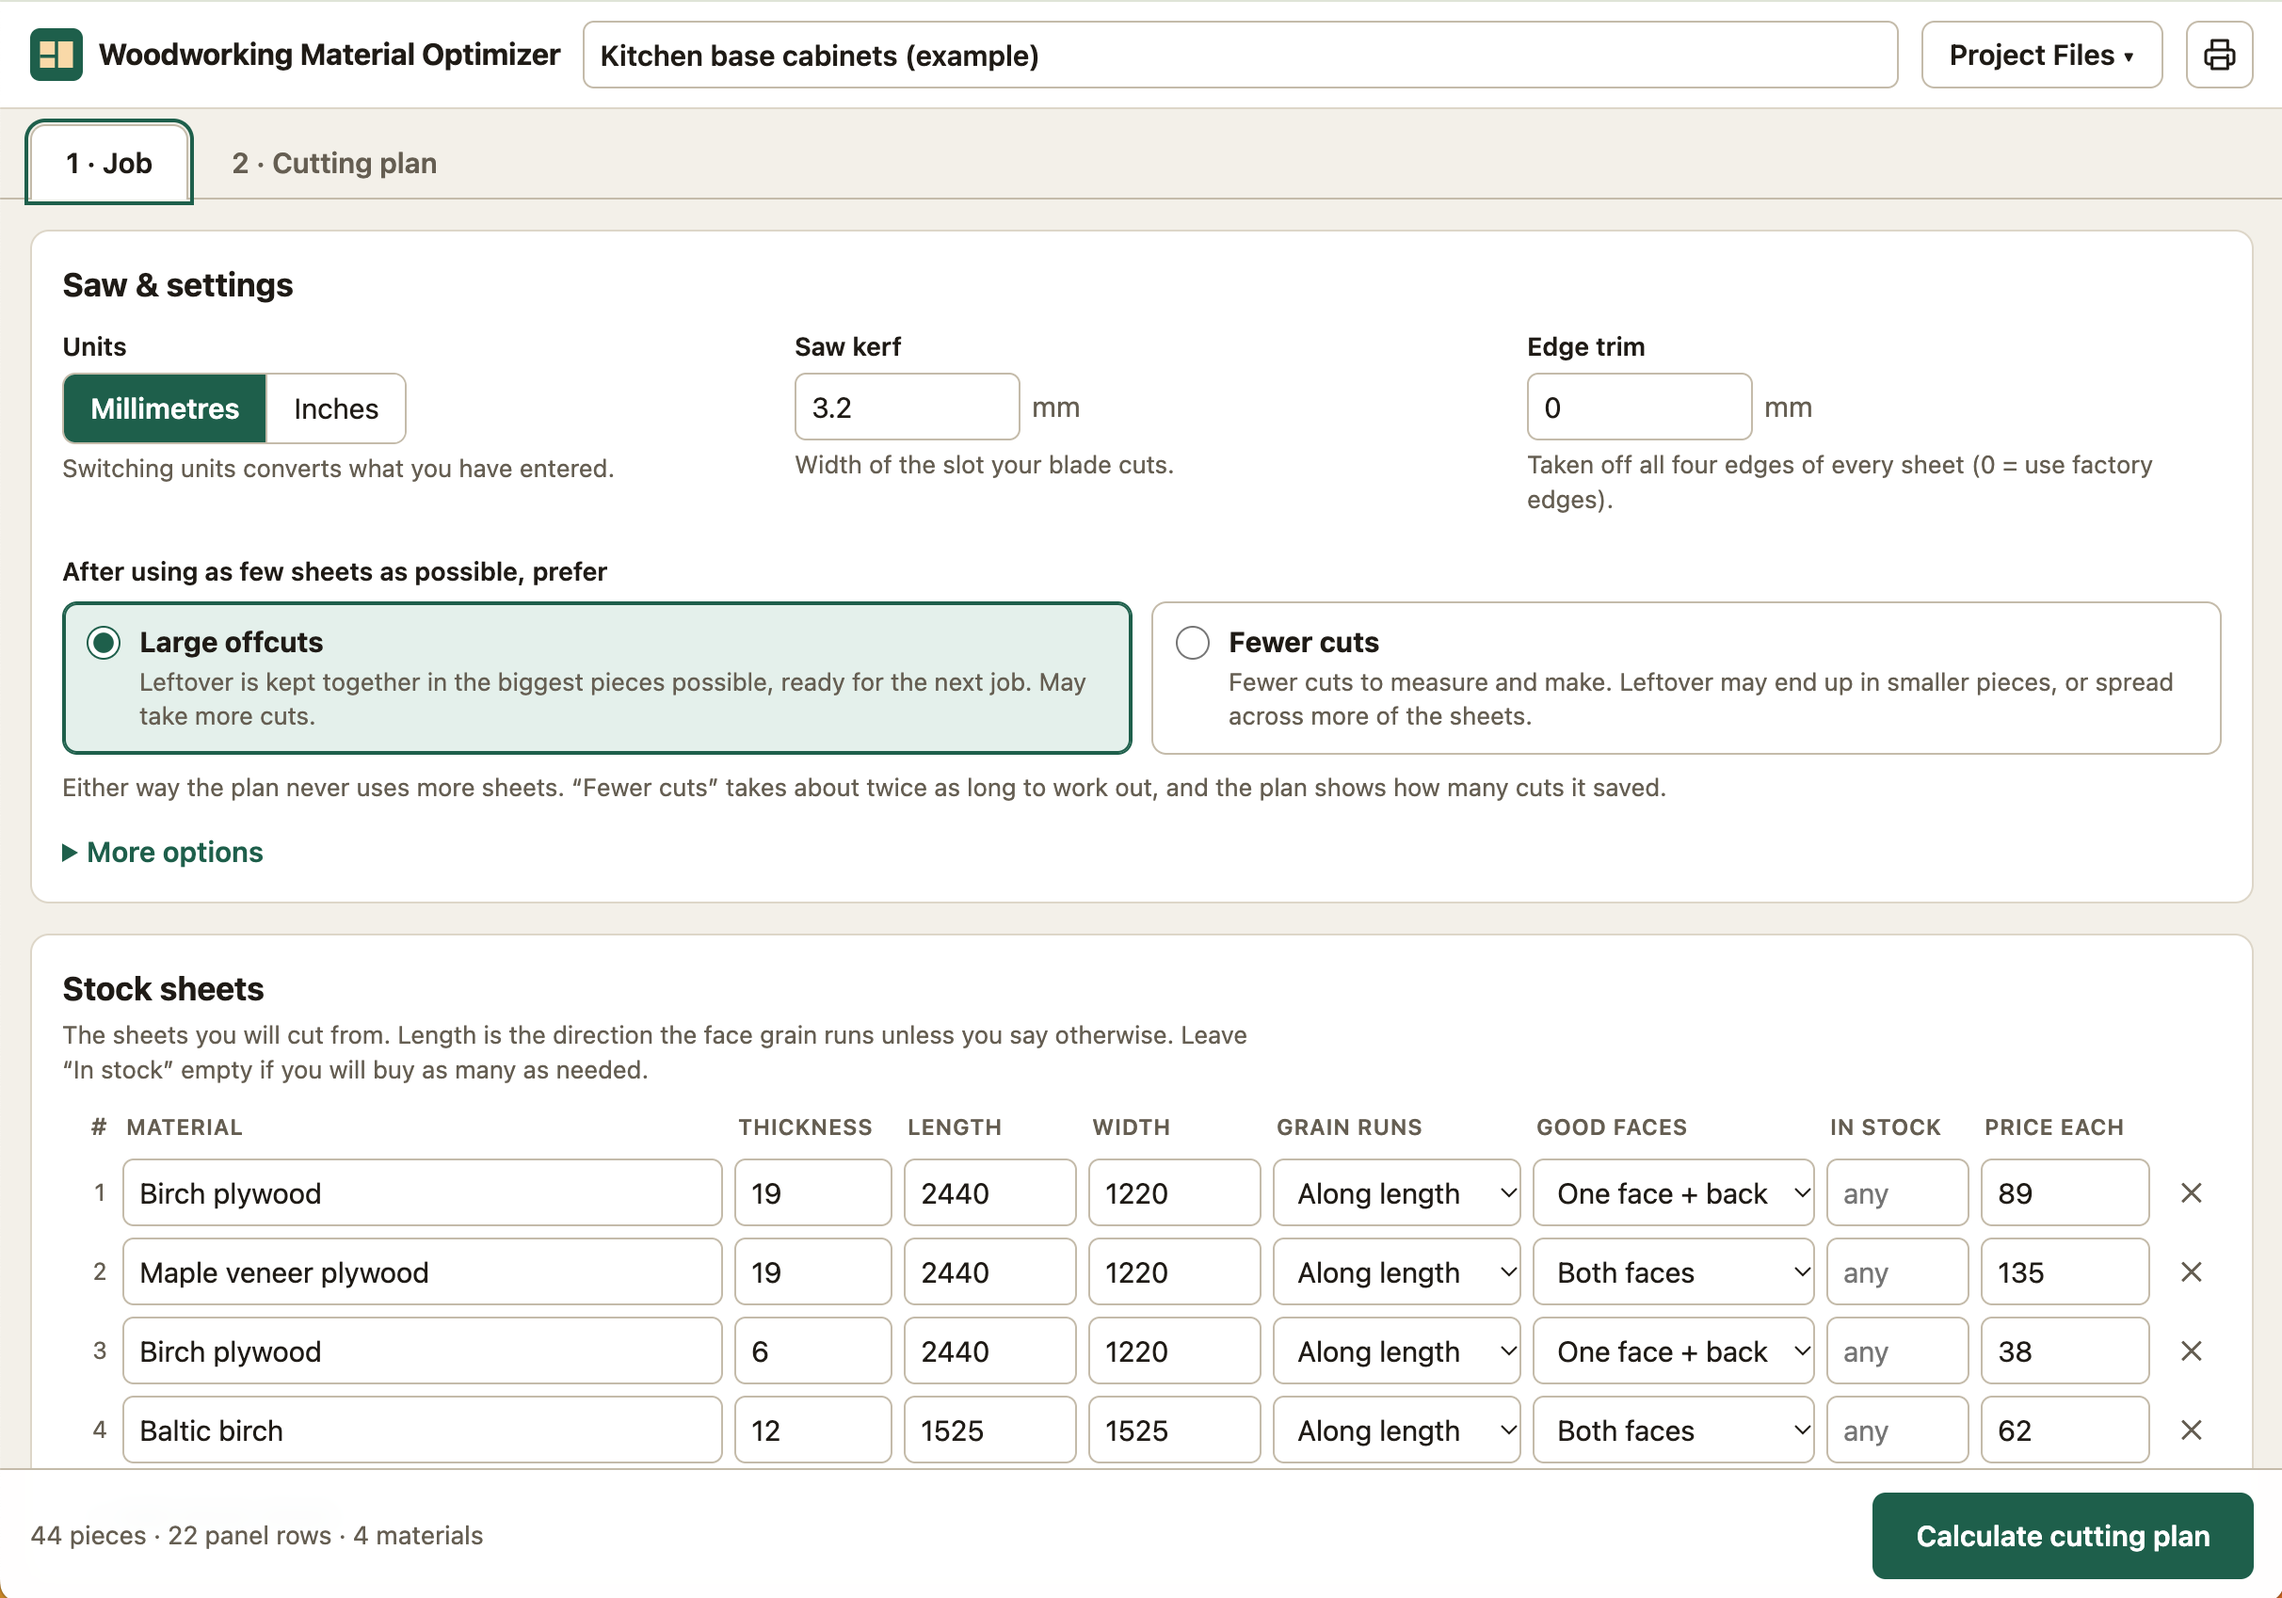
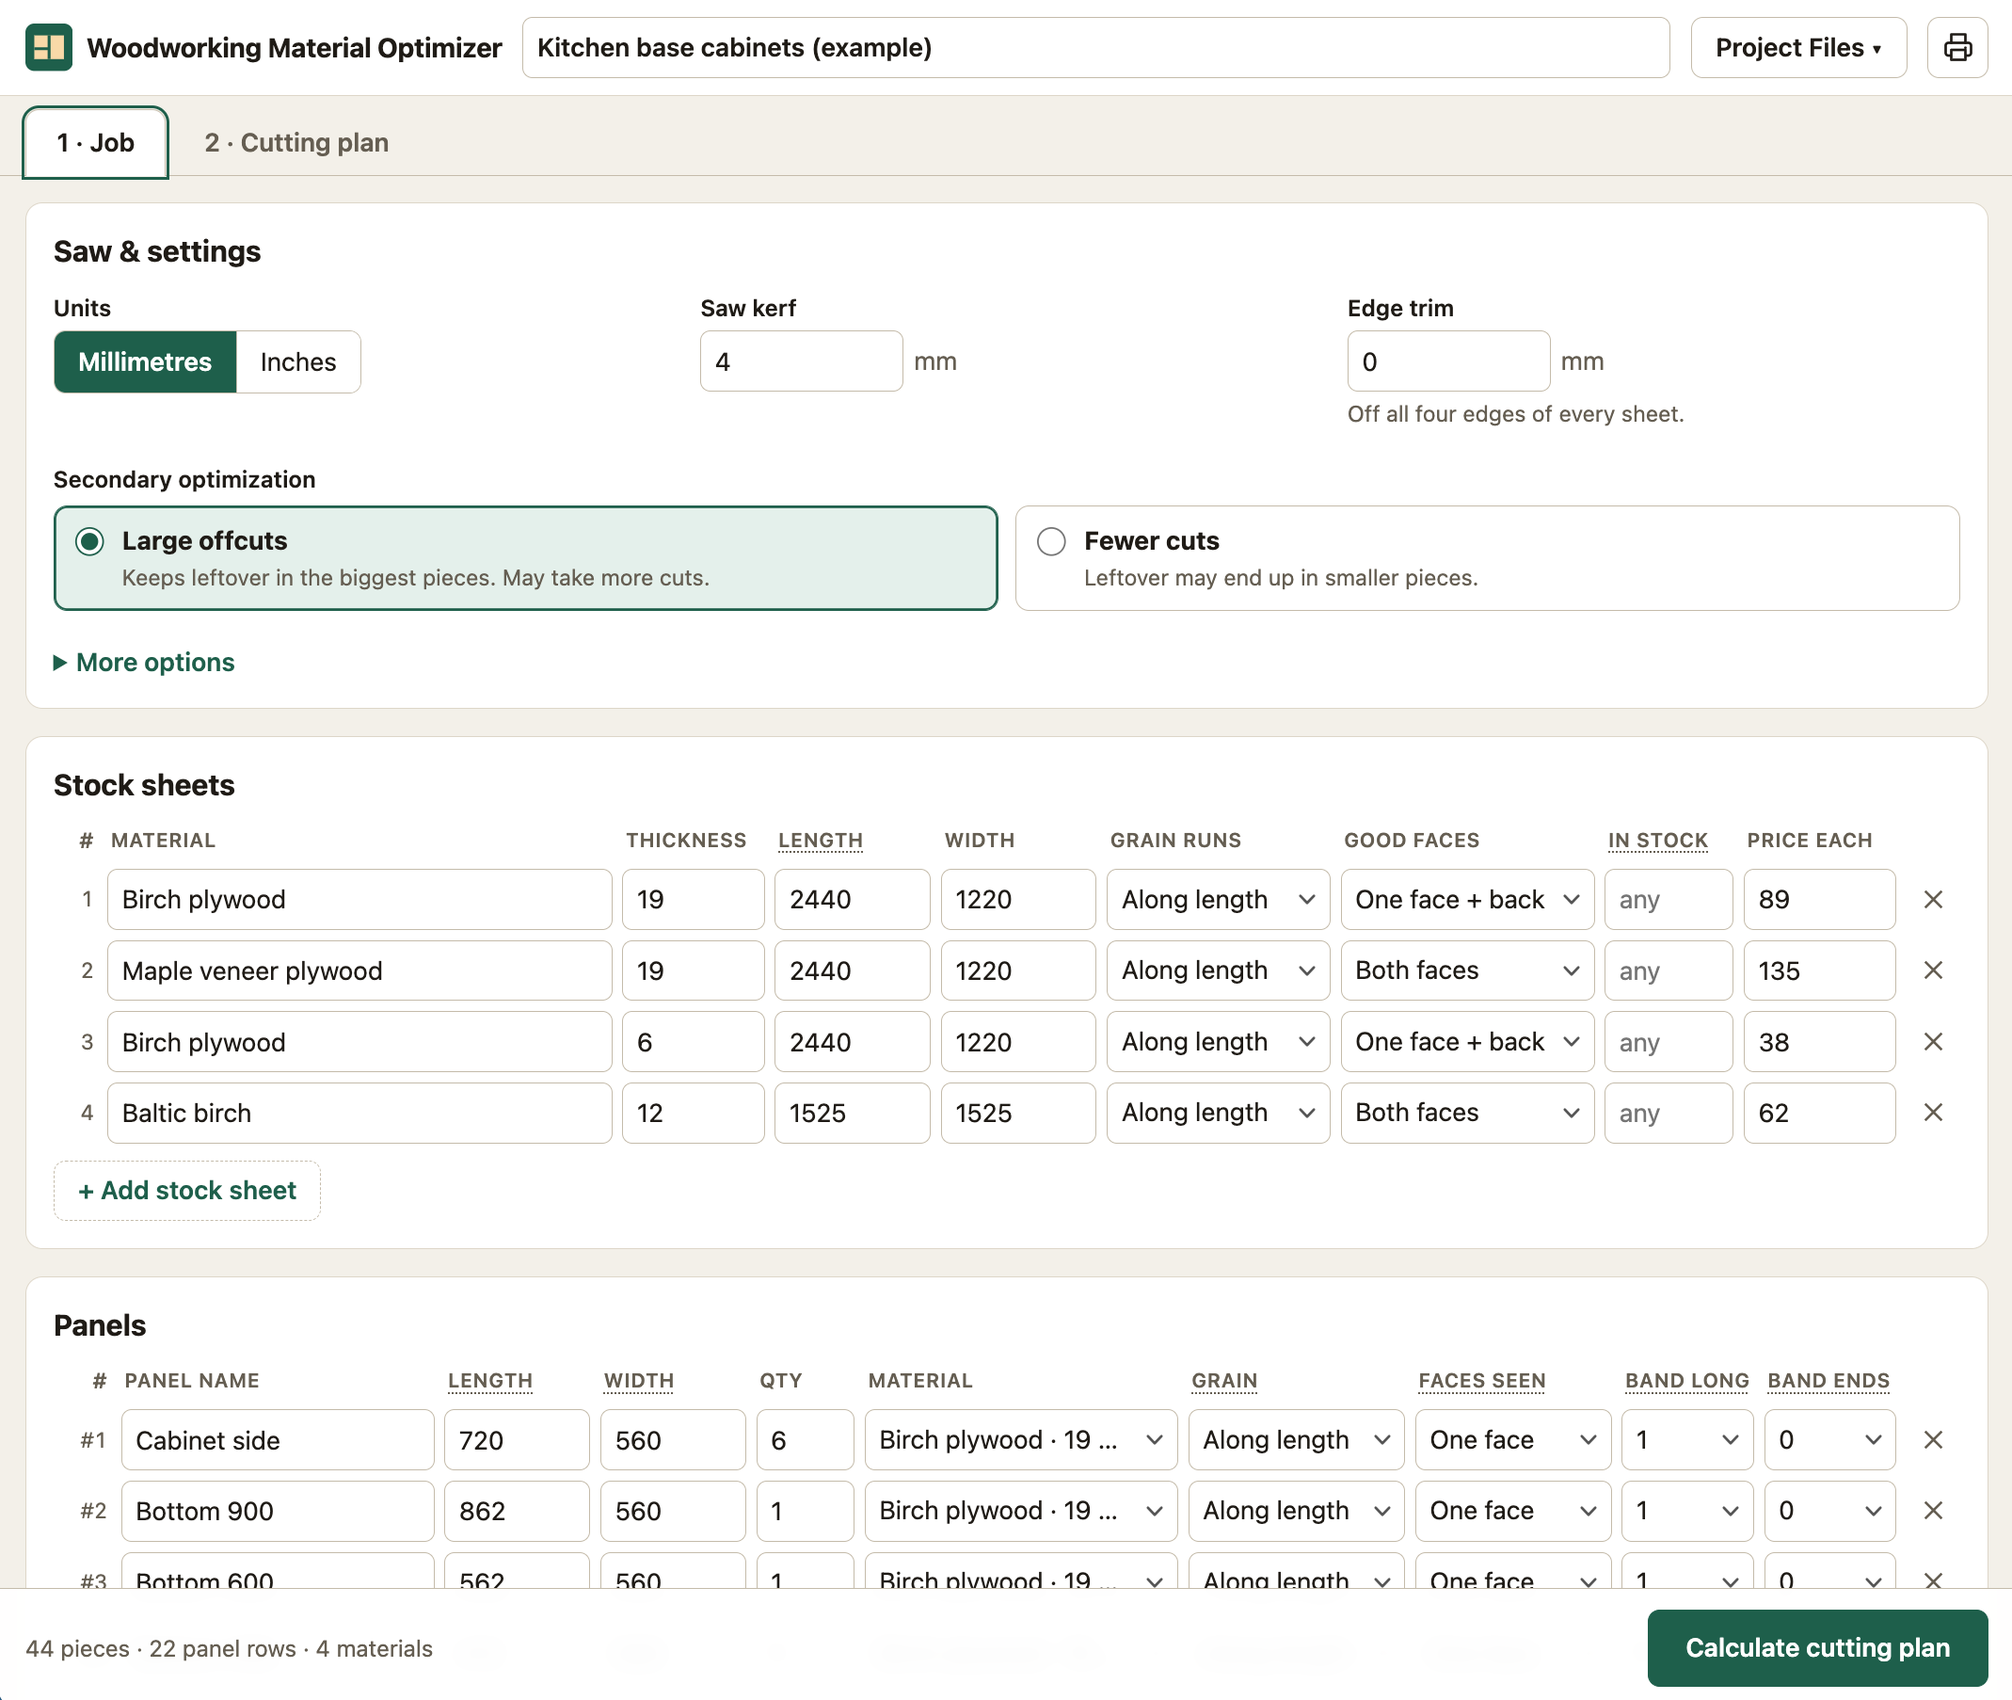
Update screenshots and README image links

diff --git a/README.md b/README.md
@@ -35,21 +35,17 @@ Woodworkers who build cabinets, built-ins or furniture out of sheet goods like p
 
 These use the example job that opens with the app: kitchen base cabinets, 44 pieces in four materials.
 
-Setting up the job: units, saw kerf, edge trim, the choice between large offcuts and fewer cuts, and the stock sheets.
+Setting up the job: units, saw kerf, edge trim, the choice between large offcuts and fewer cuts, the stock sheets and the panels.
 
 ![Job setup](docs/images/1-project-setup.png)
 
-Entering the panels: size, quantity, material, grain, which faces show, and edge banding.
+The summary after calculating: sheets used, how much of the stock becomes parts, cuts per sheet, and what to pull or buy.
 
-![Panels](docs/images/2-panels.png)
-
-The summary after calculating: sheets used, how much of the stock becomes parts, offcuts, cuts and cost.
-
-![Summary](docs/images/3-summary.png)
+![Summary](docs/images/2-summary.png)
 
 One sheet's layout, with every cut numbered and the cuts listed in order. You can tick them off as you go.
 
-![Cut plan for one sheet](docs/images/4-cut-plan.png)
+![Cut plan for one sheet](docs/images/3-cut-plan.png)
 
 ## How it picks a layout
 
